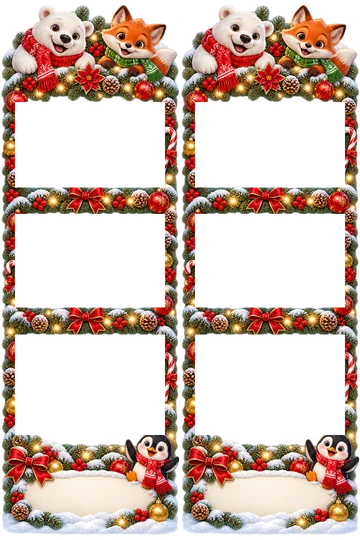
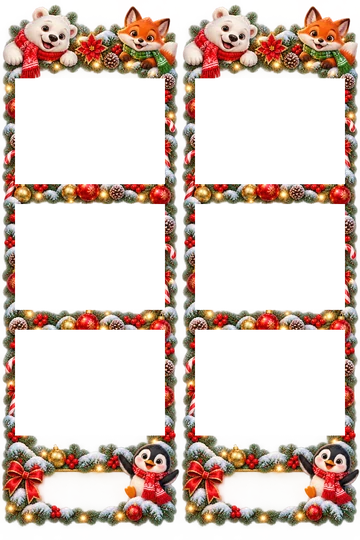
Match Christmas strip to standard photo slots

diff --git a/sw.js b/sw.js
@@ -1,5 +1,5 @@
 // Bump these to force one-time invalidation when changing strategies.
-const APP_SHELL_CACHE = "pb-app-shell-v79";
+const APP_SHELL_CACHE = "pb-app-shell-v80";
 const RUNTIME_CACHE = "pb-runtime-v5";
 const SHARE_CACHE = "pb-share-v1";
 const OFFLINE_ASSETS_CACHE = "pb-offline-assets-v1";
